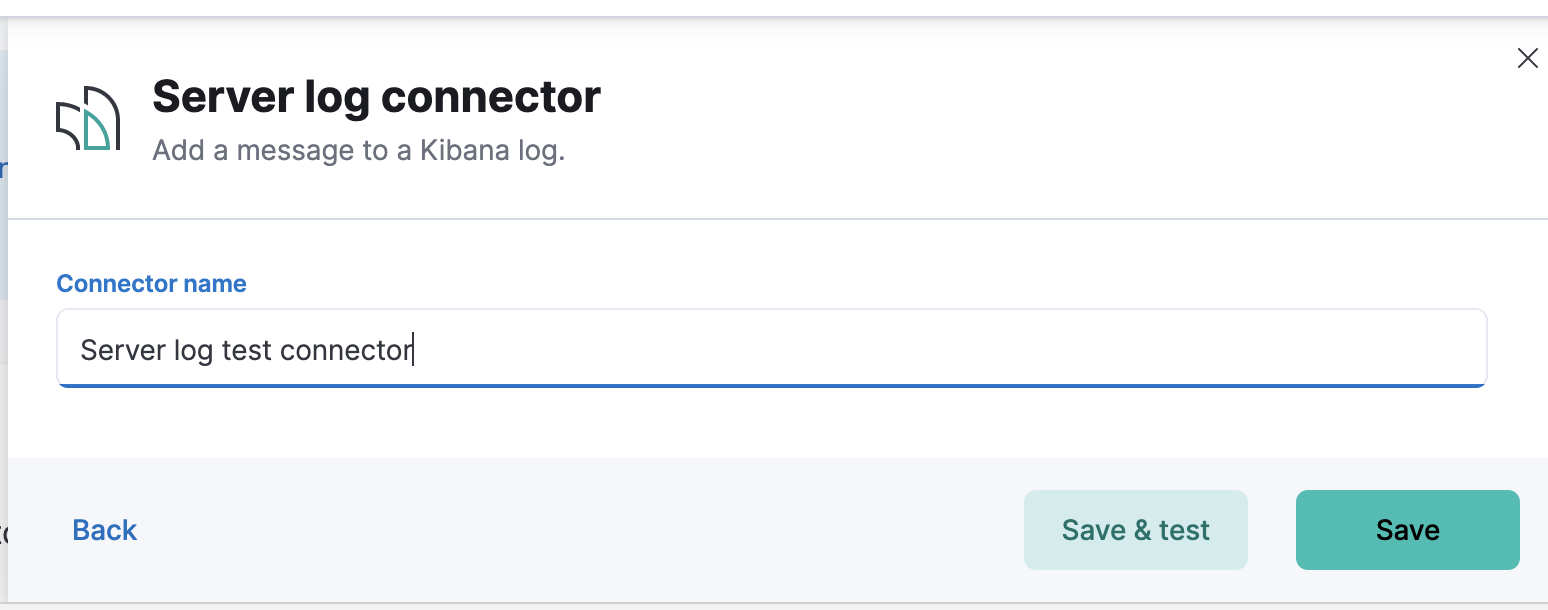
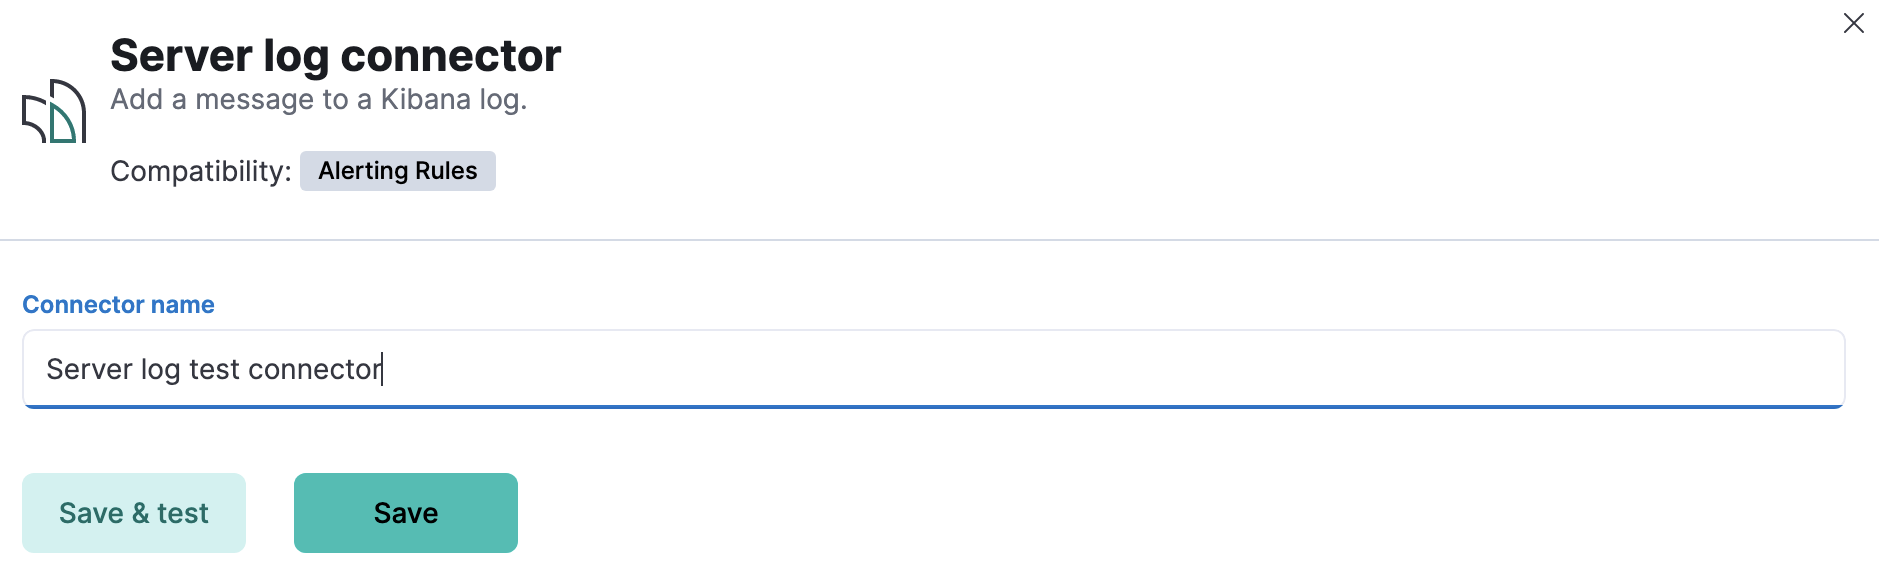
[DOCS] Improve server log connector, automate screenshots (#149905)

diff --git a/x-pack/test/screenshot_creation/apps/response_ops_docs/stack_alerting/connector_types.ts b/x-pack/test/screenshot_creation/apps/response_ops_docs/stack_alerting/connector_types.ts
@@ -1,0 +1,36 @@
+/*
+ * Copyright Elasticsearch B.V. and/or licensed to Elasticsearch B.V. under one
+ * or more contributor license agreements. Licensed under the Elastic License
+ * 2.0; you may not use this file except in compliance with the Elastic License
+ * 2.0.
+ */
+
+import { FtrProviderContext } from '../../../ftr_provider_context';
+
+export default function ({ getService, getPageObjects }: FtrProviderContext) {
+  const commonScreenshots = getService('commonScreenshots');
+  const screenshotDirectories = ['response_ops_docs', 'stack_alerting'];
+  const pageObjects = getPageObjects(['common', 'header']);
+  const actions = getService('actions');
+  const testSubjects = getService('testSubjects');
+
+  describe('connector types', function () {
+    beforeEach(async () => {
+      await pageObjects.common.navigateToApp('connectors');
+      await pageObjects.header.waitUntilLoadingHasFinished();
+    });
+
+    it('serverlog connector screenshot', async () => {
+      await pageObjects.common.navigateToApp('connectors');
+      await pageObjects.header.waitUntilLoadingHasFinished();
+      await actions.common.openNewConnectorForm('server-log');
+      await testSubjects.setValue('nameInput', 'Server log test connector');
+      await commonScreenshots.takeScreenshot('serverlog-connector', screenshotDirectories);
+      const saveTestButton = await testSubjects.find('create-connector-flyout-save-test-btn');
+      await saveTestButton.click();
+      await commonScreenshots.takeScreenshot('serverlog-params-test', screenshotDirectories);
+      const flyOutCancelButton = await testSubjects.find('euiFlyoutCloseButton');
+      await flyOutCancelButton.click();
+    });
+  });
+}

diff --git a/x-pack/test/screenshot_creation/apps/response_ops_docs/stack_alerting/list_view.ts b/x-pack/test/screenshot_creation/apps/response_ops_docs/stack_alerting/list_view.ts
@@ -11,12 +11,10 @@ export default function ({ getService, getPageObjects }: FtrProviderContext) {
   const commonScreenshots = getService('commonScreenshots');
   const screenshotDirectories = ['response_ops_docs', 'stack_alerting'];
   const pageObjects = getPageObjects(['common', 'header']);
-  const actions = getService('actions');
   const rules = getService('rules');
   const testSubjects = getService('testSubjects');
 
   describe('list view', function () {
-    let serverLogConnectorId: string;
     let ruleId: string;
     const indexThresholdRule = {
       consumer: 'alerts',
@@ -38,13 +36,10 @@ export default function ({ getService, getPageObjects }: FtrProviderContext) {
     };
 
     before(async () => {
-      const connectorName = `server-log-connector`;
-      ({ id: serverLogConnectorId } = await createServerLogConnector(connectorName));
       ({ id: ruleId } = await rules.api.createRule(indexThresholdRule));
     });
 
     after(async () => {
-      await actions.api.deleteConnector(serverLogConnectorId);
       await rules.api.deleteRule(ruleId);
     });
 
@@ -87,13 +82,4 @@ export default function ({ getService, getPageObjects }: FtrProviderContext) {
       await commonScreenshots.takeScreenshot('snooze-panel', screenshotDirectories, 1400, 1024);
     });
   });
-
-  const createServerLogConnector = async (name: string) => {
-    return actions.api.createConnector({
-      name,
-      config: {},
-      secrets: {},
-      connectorTypeId: '.server-log',
-    });
-  };
 }

diff --git a/x-pack/test/screenshot_creation/apps/response_ops_docs/stack_alerting/index.ts b/x-pack/test/screenshot_creation/apps/response_ops_docs/stack_alerting/index.ts
@@ -7,8 +7,26 @@
 
 import { FtrProviderContext } from '../../../ftr_provider_context';
 
-export default function ({ loadTestFile }: FtrProviderContext) {
+export default function ({ loadTestFile, getService }: FtrProviderContext) {
+  const browser = getService('browser');
+  const actions = getService('actions');
+
   describe('stack alerting', function () {
+    before(async () => {
+      await browser.setWindowSize(1920, 1080);
+      await actions.api.createConnector({
+        name: 'server-log-connector',
+        config: {},
+        secrets: {},
+        connectorTypeId: '.server-log',
+      });
+    });
+
+    after(async () => {
+      await actions.api.deleteAllConnectors();
+    });
+
     loadTestFile(require.resolve('./list_view'));
+    loadTestFile(require.resolve('./connector_types'));
   });
 }
